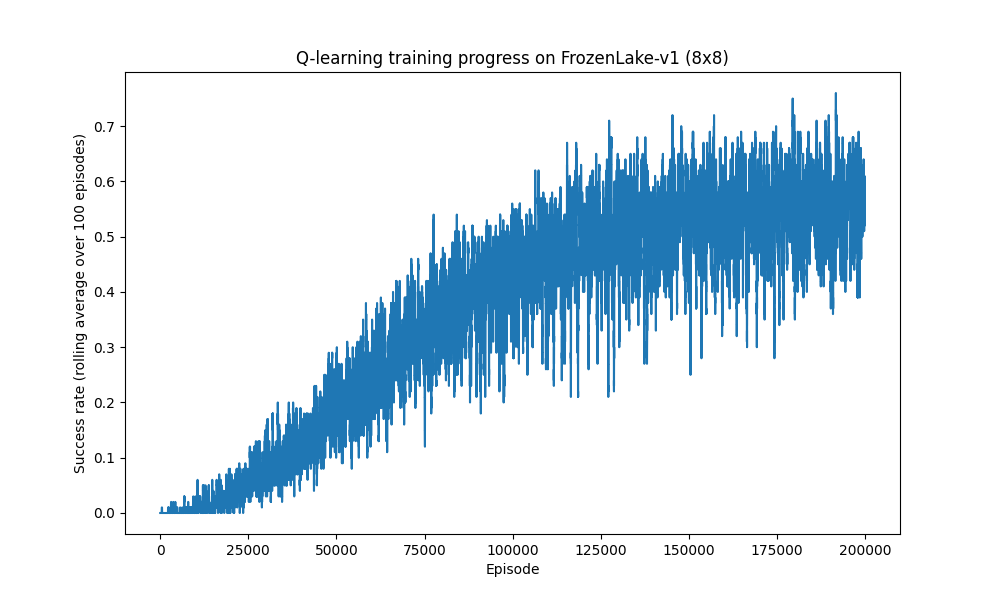
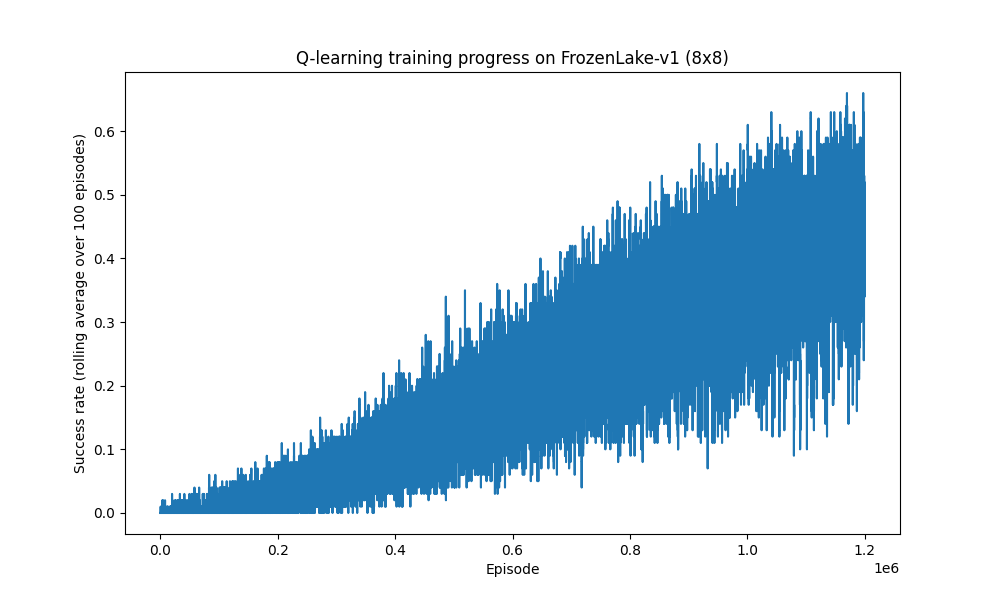
find 8x8 ceiling with longer vectorized training

diff --git a/train_8x8.py b/train_8x8.py
@@ -1,64 +1,140 @@
+import time
 import numpy as np
 import gymnasium as gym
 
 env_name = "FrozenLake-v1"
 map_name = "8x8"
 is_slippery = True
+max_num_episodes = 3000000
+num_envs = 128
 
-num_episodes = 200000
-max_steps_per_episode = 100
-
-learning_rate = 0.1
+start_learning_rate = 0.1
+end_learning_rate = 0.01
+lr_decay_episodes = 1500000
 discount_rate = 0.99
+optimistic_init_value = 1.0
 
 epsilon = 1.0
 max_epsilon = 1.0
 min_epsilon = 0.01
-epsilon_decay_rate = 0.00003
+epsilon_decay_rate = 0.000003
 
-env = gym.make(env_name, map_name=map_name, is_slippery=is_slippery)
+checkpoint_interval = 5000
+greedy_eval_interval = 50000
+greedy_eval_episodes = 2000
+smoothing_window_evals = 4
+plateau_window_evals = 6
+plateau_threshold = 1.5
+min_episodes_before_plateau_check = 1200000
 
-num_states = env.observation_space.n
-num_actions = env.action_space.n
-q_table = np.zeros((num_states, num_actions))
+envs = gym.make_vec(env_name, num_envs=num_envs, vectorization_mode="sync", map_name=map_name, is_slippery=is_slippery)
+num_states = envs.single_observation_space.n
+num_actions = envs.single_action_space.n
+q_table = np.full((num_states, num_actions), optimistic_init_value)
 
-rewards_per_episode = []
+eval_env = gym.make(env_name, map_name=map_name, is_slippery=is_slippery)
 
-for episode in range(num_episodes):
-    state, info = env.reset()
-    done = False
-    total_reward = 0
-
-    for step in range(max_steps_per_episode):
-        if np.random.uniform(0, 1) < epsilon:
-            action = env.action_space.sample()
-        else:
+def greedy_eval(num_episodes):
+    success_count = 0
+    for episode in range(num_episodes):
+        state, info = eval_env.reset()
+        for step in range(100):
             action = np.argmax(q_table[state, :])
+            state, reward, terminated, truncated, info = eval_env.step(action)
+            if terminated or truncated:
+                success_count += reward == 1
+                break
+    return success_count / num_episodes * 100
 
-        next_state, reward, terminated, truncated, info = env.step(action)
-        done = terminated or truncated
+states, infos = envs.reset()
+needs_reset = np.zeros(num_envs, dtype=bool)
 
-        best_next_value = np.max(q_table[next_state, :])
-        q_table[state, action] = q_table[state, action] + learning_rate * (
-            reward + discount_rate * best_next_value - q_table[state, action]
-        )
+episode_outcomes = []
+greedy_eval_success_rates = []
+episodes_completed = 0
+next_greedy_eval_at = greedy_eval_interval
+start_time = time.time()
+training_finished = False
 
-        state = next_state
-        total_reward += reward
+while episodes_completed < max_num_episodes:
+    random_actions = np.random.randint(0, num_actions, size=num_envs)
+    greedy_actions = np.argmax(q_table[states], axis=1)
+    explore_mask = np.random.uniform(size=num_envs) < epsilon
+    actions = np.where(explore_mask, random_actions, greedy_actions)
 
-        if done:
-            break
+    next_states, rewards, terminations, truncations, infos = envs.step(actions)
+    dones = terminations | truncations
 
-    epsilon = min_epsilon + (max_epsilon - min_epsilon) * np.exp(-epsilon_decay_rate * episode)
-    rewards_per_episode.append(total_reward)
+    valid = ~needs_reset
+    valid_idx = np.nonzero(valid)[0]
 
-    if (episode + 1) % 5000 == 0:
-        recent_success_rate = np.mean(rewards_per_episode[-5000:]) * 100
-        print(f"Episode {episode + 1}/{num_episodes} - success rate last 5000 episodes: {recent_success_rate:.1f}% - epsilon: {epsilon:.3f}")
+    current_lr = start_learning_rate - (start_learning_rate - end_learning_rate) * min(
+        episodes_completed / lr_decay_episodes, 1.0
+    )
 
-env.close()
+    s = states[valid_idx]
+    a = actions[valid_idx]
+    r = rewards[valid_idx]
+    ns = next_states[valid_idx]
+    not_done = ~dones[valid_idx]
+    best_next_values = np.max(q_table[ns], axis=1) * not_done
+    td_errors = r + discount_rate * best_next_values - q_table[s, a]
+    np.add.at(q_table, (s, a), current_lr * td_errors)
+
+    completed_idx = valid_idx[dones[valid_idx]]
+    for idx in completed_idx:
+        episode_outcomes.append(rewards[idx])
+        episodes_completed += 1
+
+        if episodes_completed % checkpoint_interval == 0:
+            recent_success_rate = np.mean(episode_outcomes[-checkpoint_interval:]) * 100
+            print(
+                f"Episode {episodes_completed}/{max_num_episodes} - "
+                f"training rollout success last {checkpoint_interval}: {recent_success_rate:.1f}% - "
+                f"epsilon: {epsilon:.4f} - lr: {current_lr:.4f}"
+            )
+
+        if episodes_completed >= next_greedy_eval_at:
+            greedy_success_rate = greedy_eval(greedy_eval_episodes)
+            greedy_eval_success_rates.append(greedy_success_rate)
+            smoothed_success_rate = np.mean(greedy_eval_success_rates[-smoothing_window_evals:])
+            print(
+                f"  greedy eval at {episodes_completed}: {greedy_success_rate:.1f}% success over "
+                f"{greedy_eval_episodes} episodes (smoothed: {smoothed_success_rate:.1f}%)"
+            )
+            next_greedy_eval_at += greedy_eval_interval
+
+            if (
+                len(greedy_eval_success_rates) > plateau_window_evals + smoothing_window_evals
+                and episodes_completed >= min_episodes_before_plateau_check
+            ):
+                previous_smoothed_rate = np.mean(
+                    greedy_eval_success_rates[-plateau_window_evals - smoothing_window_evals : -plateau_window_evals]
+                )
+                improvement = smoothed_success_rate - previous_smoothed_rate
+                if improvement < plateau_threshold:
+                    print(
+                        f"Smoothed greedy eval success rate plateaued (+{improvement:.1f} points over last "
+                        f"{plateau_window_evals * greedy_eval_interval} episodes), stopping training"
+                    )
+                    training_finished = True
+                    break
+
+    if training_finished:
+        break
+
+    needs_reset = valid & dones
+    states = next_states
+
+    epsilon = min_epsilon + (max_epsilon - min_epsilon) * np.exp(-epsilon_decay_rate * episodes_completed)
+
+envs.close()
+eval_env.close()
+
+elapsed_time = time.time() - start_time
 
 np.save("q_table_8x8.npy", q_table)
-np.save("rewards_per_episode_8x8.npy", np.array(rewards_per_episode))
+np.save("rewards_per_episode_8x8.npy", np.array(episode_outcomes))
 
-print("Training finished, Q-table saved to q_table_8x8.npy")
+print(f"Training finished after {len(episode_outcomes)} episodes in {elapsed_time:.1f} seconds")
+print("Q-table saved to q_table_8x8.npy")

diff --git a/evaluate_8x8.py b/evaluate_8x8.py
@@ -5,7 +5,7 @@ env_name = "FrozenLake-v1"
 map_name = "8x8"
 is_slippery = True
 
-num_eval_episodes = 1000
+num_eval_episodes = 2000
 max_steps_per_episode = 100
 
 env = gym.make(env_name, map_name=map_name, is_slippery=is_slippery)

diff --git a/README.md b/README.md
@@ -115,14 +115,16 @@ Three episodes of the trained agent navigating the ice grid to reach the goal.
 
 I also trained the same Q-learning approach on the 8x8 version of the map (`train_8x8.py`), just to see how it holds up when the problem gets bigger. 8x8 has 64 states instead of 16, so the Q-table is 4x larger, the shortest path to the goal is much longer, and there are more holes to fall into along the way. All of that makes the exploration problem a lot harder: a random policy on 4x4 still stumbles into the goal every so often, but on 8x8 a random policy almost never reaches it (I measured about 1 in 900 random episodes reaching the goal), so the agent needs a lot more training just to see the reward even once before it can start learning from it.
 
-My first attempt just reused the tuned 4x4 hyperparameters as-is (150,000 episodes, same epsilon decay), and it completely failed to learn anything, 0% success the entire run. The epsilon decay was tuned for a 16-state problem and dropped exploration to almost nothing well before the agent had a real chance to stumble onto the goal even once in a 64-state maze. I slowed the epsilon decay down a lot (from 0.0001 to 0.00003) and bumped episodes up to 200,000 so the agent kept exploring for longer, and that was enough to get it learning properly.
+It's a known fact for slippery FrozenLake that plain Q-learning tops out well below 100%, because the slip mechanic means even the optimal policy sometimes slides into a hole no matter what action it picks. For 4x4 that ceiling is commonly cited as around 70-75%, which lines up with the 73.8% I got. There's no equivalent published number for 8x8, so instead of guessing at a target I trained a lot longer and watched where the agent's performance actually leveled off, treating that leveling-off point as the empirical ceiling for this setup.
+
+To make that longer training run practical, I rewrote `train_8x8.py` to use `gymnasium`'s vectorized environments (128 environments stepped together at once) instead of one environment in a plain Python loop, which is what made it feasible to train for over a million episodes in a few minutes instead of tens of minutes. I also switched to optimistic Q-table initialization and a decaying learning rate, and tracked a rolling 5000-episode success rate plus a separate greedy-policy evaluation every 50,000 episodes to watch for a genuine plateau (as opposed to normal run-to-run noise). Training ran for 1,200,000 episodes and stopped once the smoothed greedy success rate stayed flat (within about 1 point) over the preceding 300,000 episodes, hovering in the high-40s to low-50s range from roughly episode 850,000 onward.
 
 | Map | Success Rate | Average Steps | Episodes Trained |
 |---|---|---|---|
 | 4x4 | 73.8% | 45.5 | 50,000 |
-| 8x8 | 59.8% | 75.9 | 200,000 |
+| 8x8 | 49.4% | 72.6 | 1,200,000 (took 267 seconds with vectorized training) |
 
-The 8x8 agent needed 4x the training episodes and still landed at a lower success rate than 4x4, which is exactly what I'd expect: more states means more to learn, longer paths mean more chances for a slippery slide to send you into a hole, and the sparser reward signal makes early learning slower. It's a decent illustration of how plain tabular Q-learning starts to strain as the state space grows, even though the underlying algorithm is unchanged.
+The 8x8 agent needed 24x the training episodes and still landed at a meaningfully lower success rate than 4x4, which is exactly what I'd expect: more states means more to learn, longer paths mean more chances for a slippery slide to send you into a hole, and the sparser reward signal makes early learning slower. Since there's no published ceiling number for 8x8 slippery FrozenLake, I'm reporting ~49% as the empirical ceiling I found under this training setup rather than a known constant, and I'm not trying to push it toward matching 4x4's number since a lower ceiling on a harder map is the expected, legitimate outcome here.
 
 ### 8x8 Training Curve
 